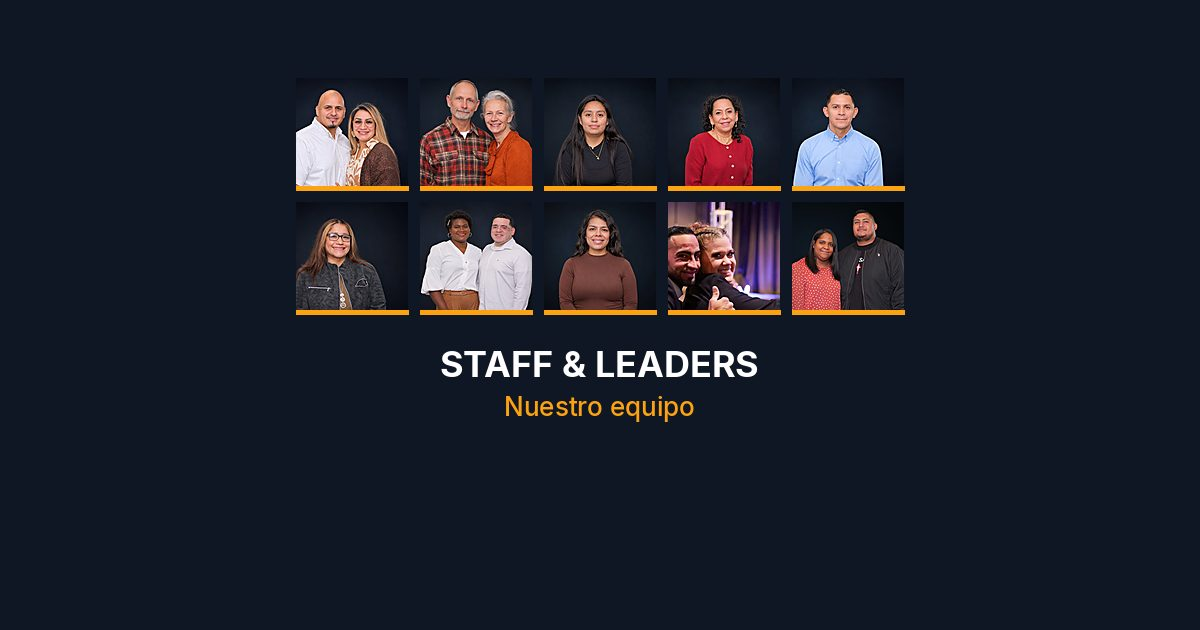
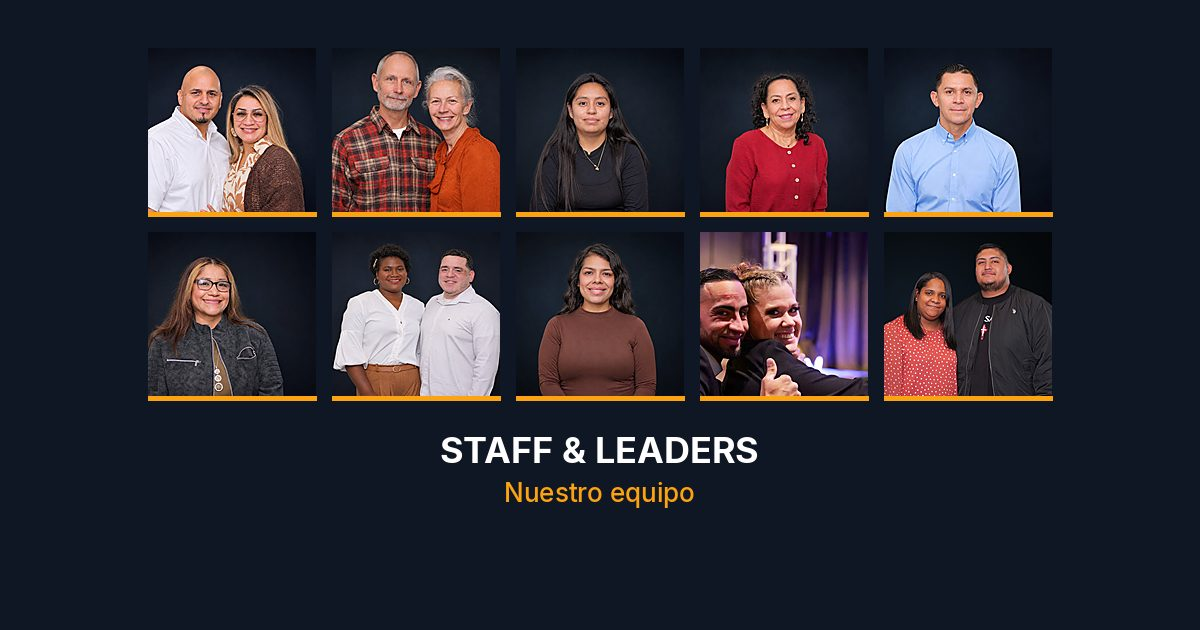
Enlarge the staff share portraits and keep the image URL on https.
All in One SEO copies og:image into og:image:secure_url, so the theme sets both to the same share image.

Changed region(s): [[0.1233, 0.0603, 0.8942, 0.6635], [0.37, 0.6937, 0.6475, 0.8143]]

diff --git a/functions.php b/functions.php
@@ -298,6 +298,7 @@ function arrow_share_facebook_tags($tags) {
     }
     $image = arrow_share_image();
     $tags['og:image'] = $image['url'];
+    $tags['og:image:secure_url'] = $image['url'];
     $tags['og:image:width'] = $image['width'];
     $tags['og:image:height'] = $image['height'];
     $tags['og:image:alt'] = $image['alt'];
@@ -325,6 +326,7 @@ function arrow_share_meta_tags() {
     $image = arrow_share_image();
     $tags = [
         'og:image' => $image['url'],
+        'og:image:secure_url' => $image['url'],
         'og:image:width' => $image['width'],
         'og:image:height' => $image['height'],
         'og:image:alt' => $image['alt'],

diff --git a/tools/generate-share-images.py b/tools/generate-share-images.py
@@ -129,12 +129,12 @@ def staff_card():
     card = Image.new('RGB', (WIDTH, HEIGHT), (16, 23, 36))
     draw = ImageDraw.Draw(card)
     files = [ASSETS / f'staff-{number:02d}.jpg' for number in range(1, 11)]
-    size, gap = 112, 12
+    size, gap = 168, 16
     columns = 5
     grid_w = columns * size + (columns - 1) * gap
     grid_h = 2 * size + gap
     origin_x = (WIDTH - grid_w) // 2
-    origin_y = 78
+    origin_y = 48
     for index, path in enumerate(files):
         column = index % columns
         row = index // columns
